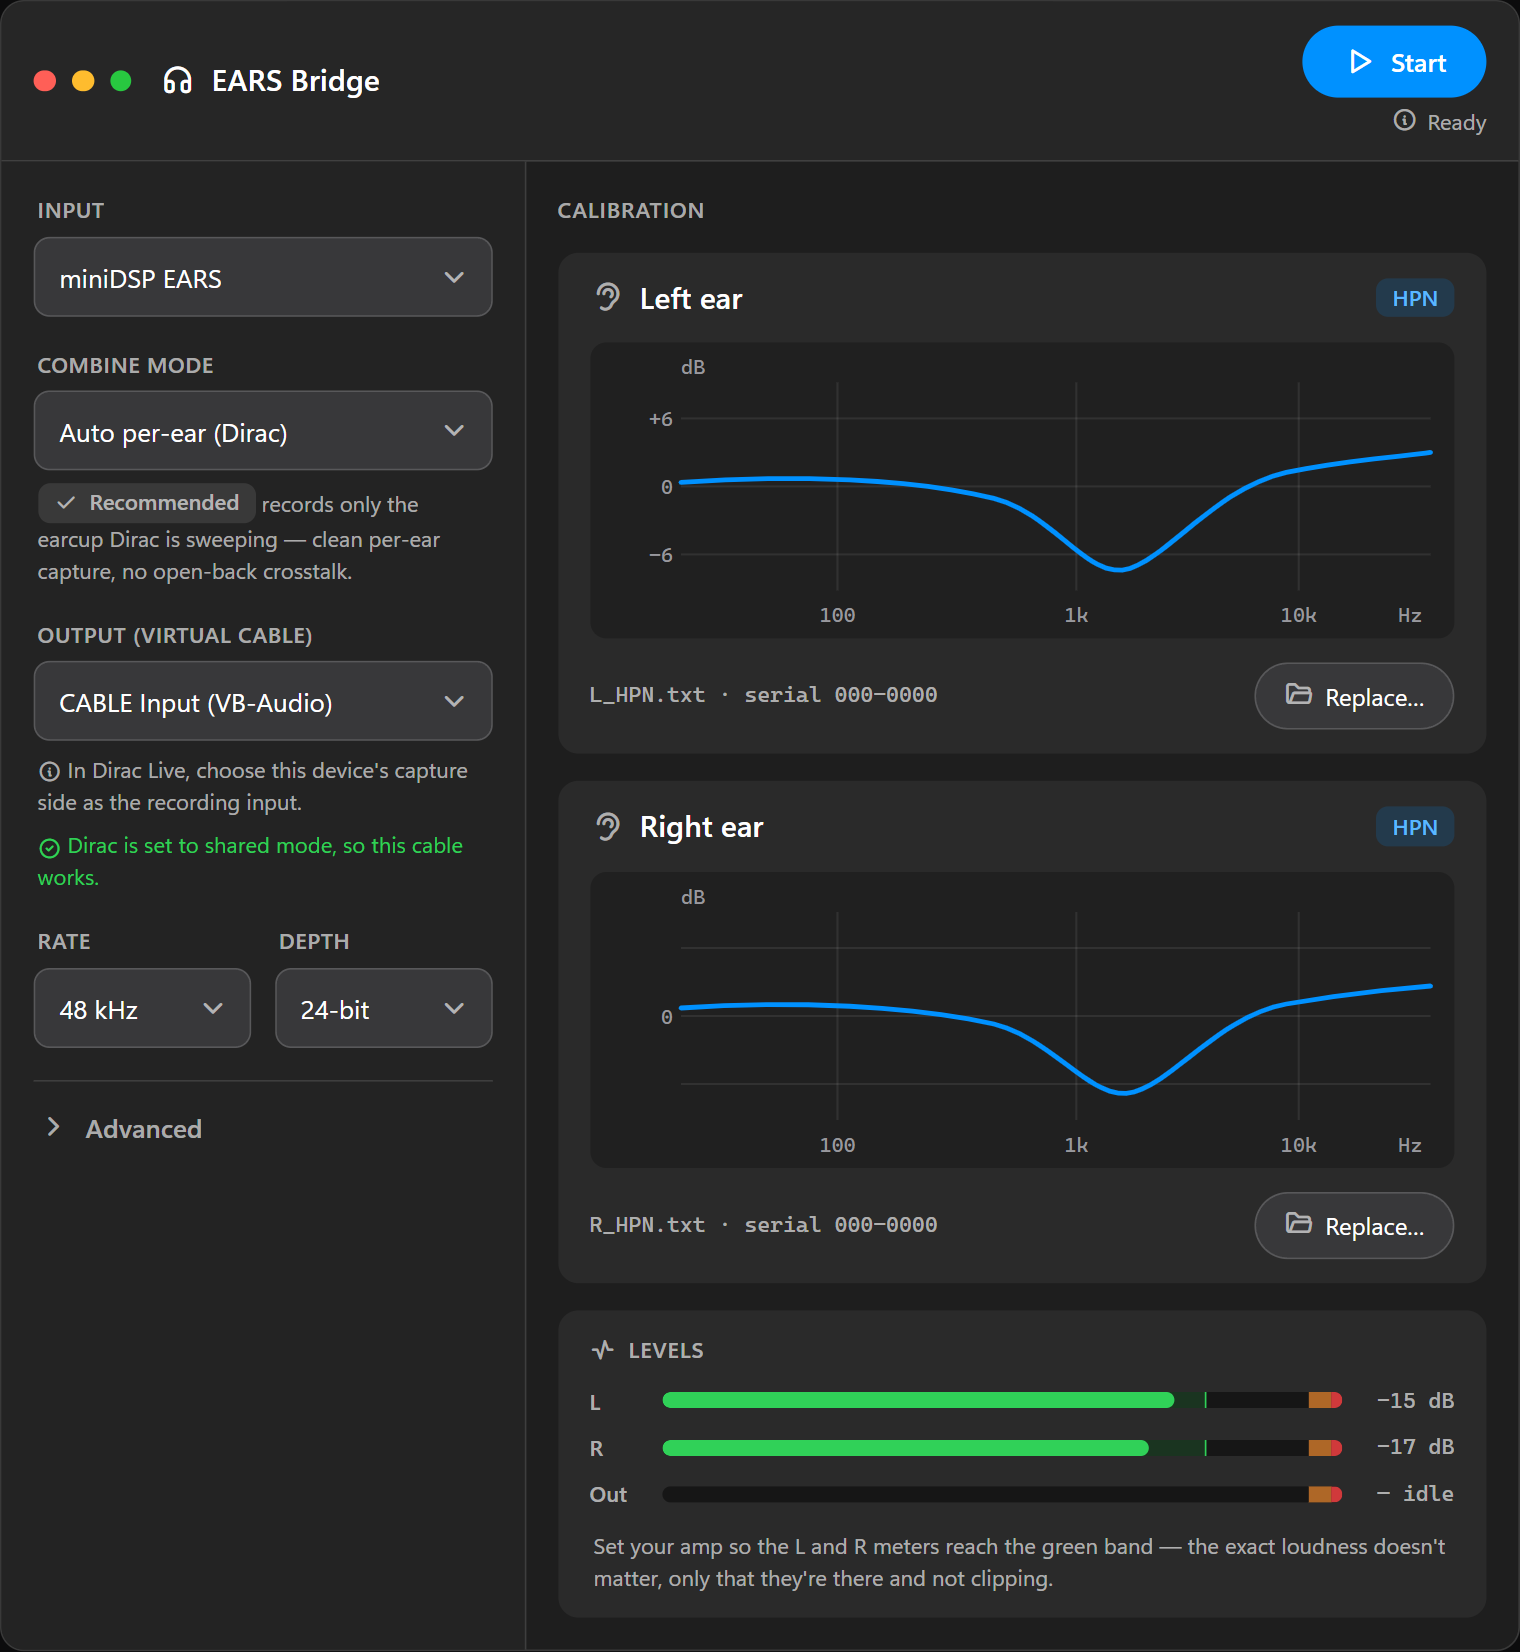
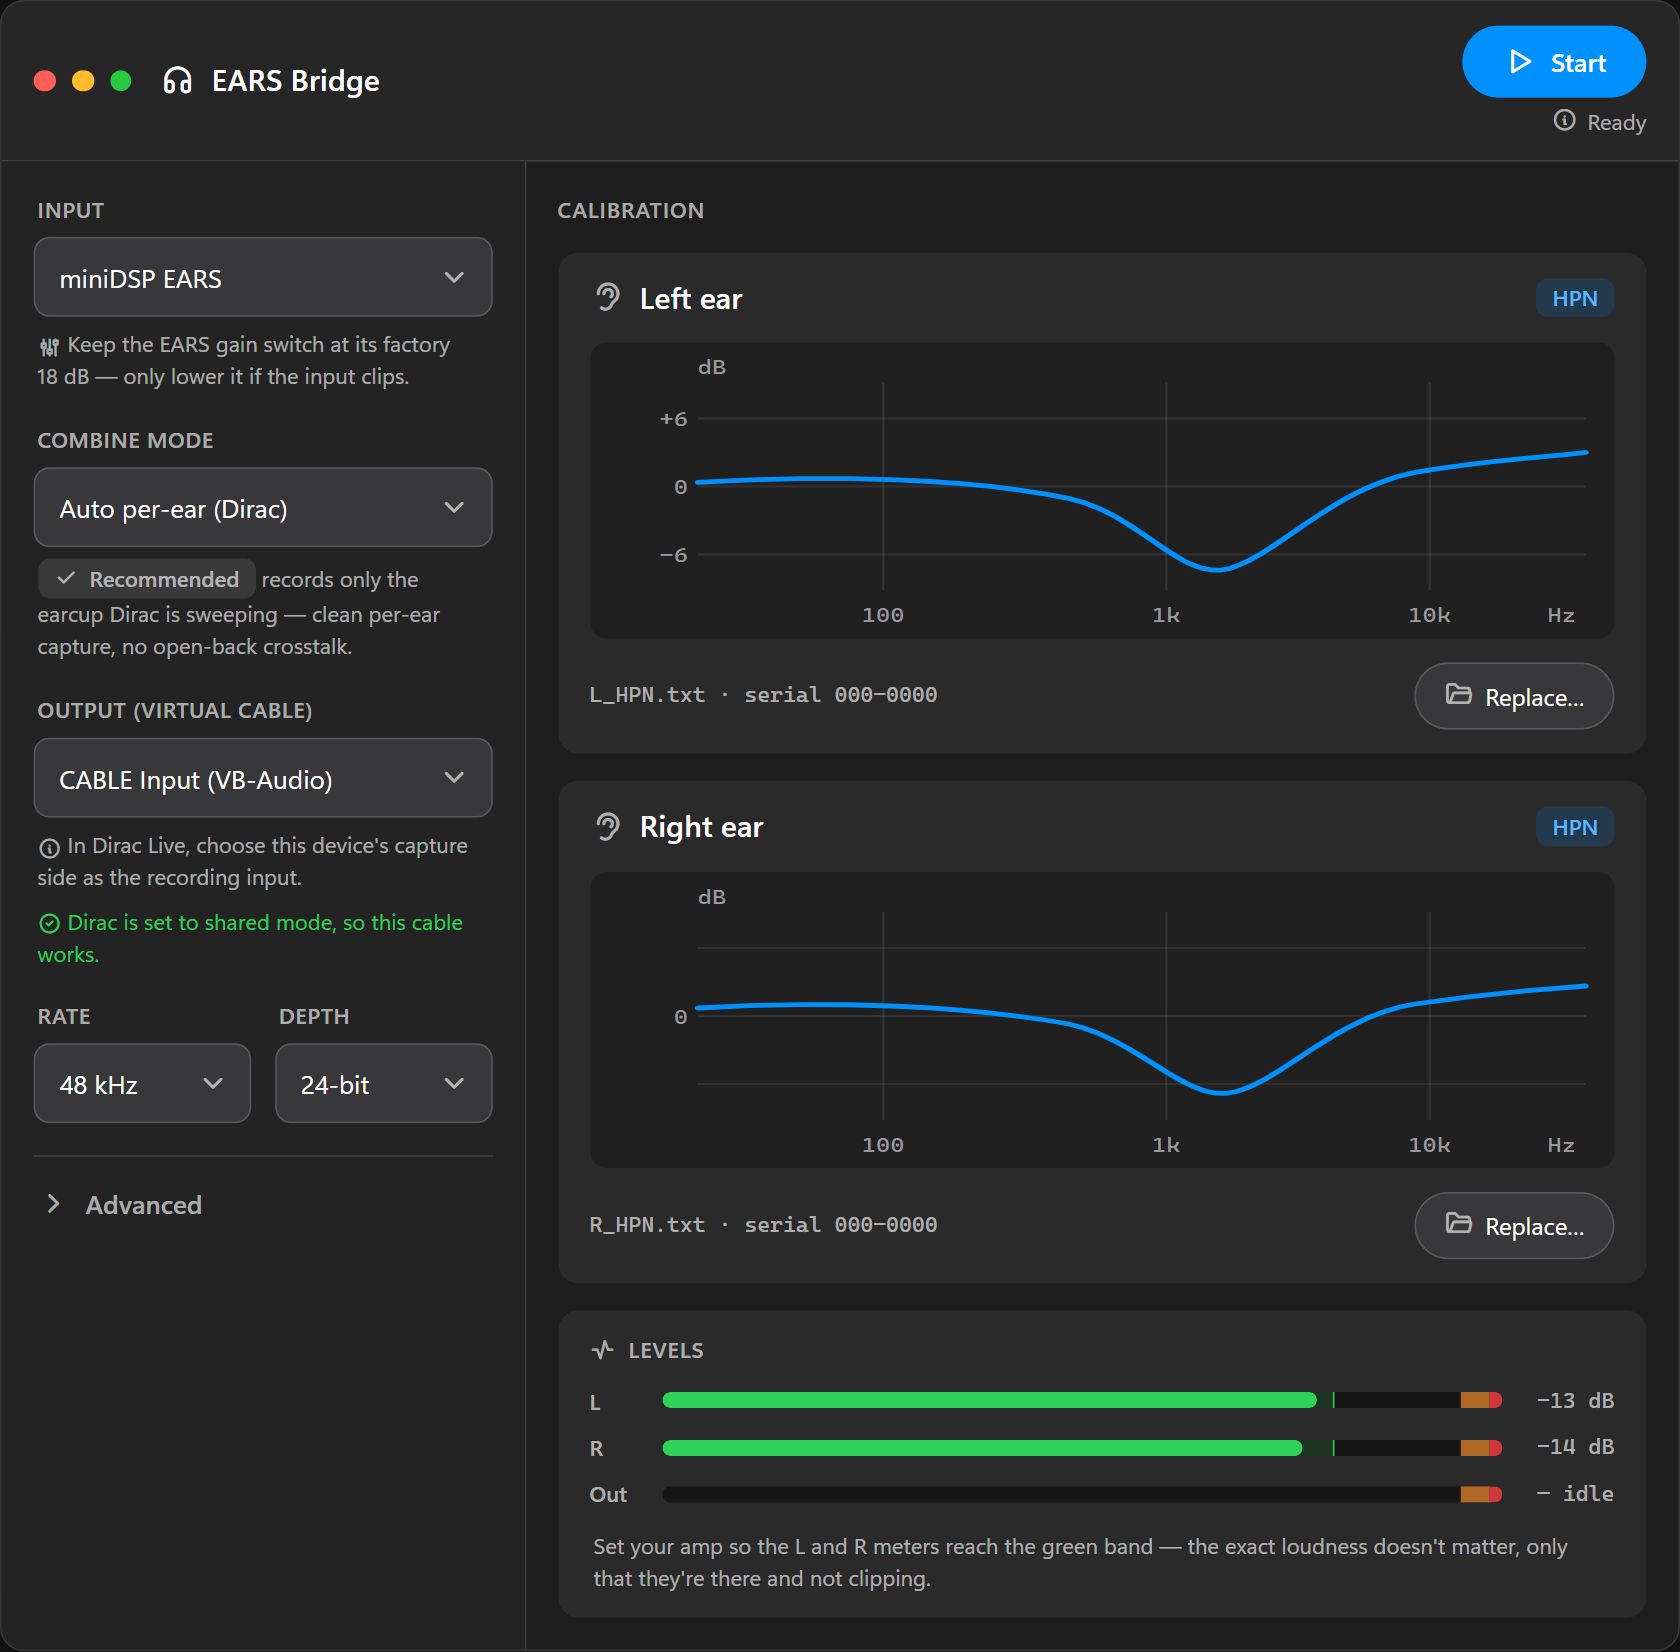
Live interactive app demo on the site; recommend 18 dB EARS gain
Website: the hero now embeds the actual app UI as a LIVE, clickable, animated demo
(site/demo.html in an auto-sized <iframe>) instead of a static screenshot --
working dropdowns, drop-to-load with an animated curve, live meters, Start gating,
and an active-ear indicator that lights the captured earcup while "running". Small
screens and no-JS fall back to a static screenshot; the iframe carries a title and
its height is driven by the demo via postMessage (clamped). app-light/-dark.png
regenerated from the demo for the fallback/README.

18 dB recommendation: after the gain-switch confusion, just tell users to keep the
EARS at its factory 18 dB -- a note under the input picker in the app
(MainComponent), in the demo, and the prototype; the README gain-staging section
already says it. The EARS gain is input headroom, not loudness; only lower it if
the input clips.

Active-ear indicator contrast fix (HIG): the "capturing LEFT/RIGHT" label/caption
used the bright accent as text (~3.5:1 on white in light mode). Keep the accent as
the meter DOT (a graphical object, 3:1) and render the label/caption in readable
primary text -- in both the app (LevelMeter/MainComponent) and the demo.

Build clean, 90/90 tests pass, apple-hig gate pass (high=0).

diff --git a/site/index.html b/site/index.html
@@ -60,11 +60,14 @@ nav a.navlink:hover{ color:var(--tx); }
 .hero .cta{ display:flex; gap:14px; justify-content:center; flex-wrap:wrap; margin-top:30px; }
 .hero .meta{ margin-top:18px; font-size:13px; color:var(--tx2); }
 
-.shot{ margin:54px auto 0; max-width:880px; border-radius:18px; border:1px solid var(--sep); overflow:hidden; box-shadow:0 30px 60px -30px rgba(0,0,0,.35); }
-@media (prefers-color-scheme: dark){ .shot{ box-shadow:0 30px 60px -30px rgba(0,0,0,.8); } }
-.shot img{ width:100%; }
-.shot picture img.dk{ display:none; }
-@media (prefers-color-scheme: dark){ .shot picture img.lt{ display:none; } .shot picture img.dk{ display:block; } }
+/* Hero shows the LIVE interactive app (demo.html) in an iframe, auto-sized to its content; small
+   screens and no-JS fall back to a static screenshot. */
+.demowrap{ margin:54px auto 0; max-width:840px; }
+.demoframe{ display:block; width:100%; height:800px; border:0; background:transparent; border-radius:12px; box-shadow:0 30px 60px -30px rgba(0,0,0,.35); }
+@media (prefers-color-scheme: dark){ .demoframe{ box-shadow:0 30px 60px -30px rgba(0,0,0,.8); } }
+.demowrap .mobshot, .demowrap .nojs{ display:none; }
+.demowrap .mobshot img, .demowrap .nojs{ width:100%; border-radius:14px; border:1px solid var(--sep); }
+@media (max-width:700px){ .demoframe{ display:none; } .demowrap .mobshot{ display:block; } }
 
 section{ padding:90px 0; }
 section.alt{ background:var(--bg2); }
@@ -127,12 +130,15 @@ footer .disc{ width:100%; margin-top:14px; line-height:1.5; }
     <a class="btn" href="https://github.com/Elevatormusic/ears-bridge/releases/latest/download/EARS-Bridge-macOS.dmg"><i class="ti ti-brand-apple" aria-hidden="true"></i>Download for macOS</a>
   </div>
   <p class="meta">Free · open source · Windows 10/11 and macOS · works with EARS and EARS&nbsp;Pro</p>
-  <div class="shot">
-    <picture>
-      <img class="lt" src="assets/app-light.png?v=4" alt="EARS Bridge: the Auto per-ear combine mode selected, per-ear calibration plots for both ears, routing controls with the Dirac shared-mode confirmation, and live level meters">
-      <img class="dk" src="assets/app-dark.png?v=4" alt="EARS Bridge in dark mode, showing the Auto per-ear mode, both calibration plots, and level meters">
+  <div class="demowrap">
+    <iframe class="demoframe" title="Interactive EARS Bridge demo — try the dropdowns, load a calibration, and press Start" src="demo.html" loading="lazy"></iframe>
+    <picture class="mobshot">
+      <source media="(prefers-color-scheme: dark)" srcset="assets/app-dark.png?v=5">
+      <img src="assets/app-light.png?v=5" alt="EARS Bridge: Auto per-ear mode, per-ear calibration plots, the Dirac shared-mode confirmation, and live level meters sitting in the green target band">
     </picture>
+    <noscript><img class="nojs" src="assets/app-light.png?v=5" alt="EARS Bridge interface: Auto per-ear mode, per-ear calibration plots, and level meters"></noscript>
   </div>
+  <script>addEventListener('message',function(e){if(e.data&&typeof e.data.ebDemoHeight==='number'){var f=document.querySelector('.demoframe');if(f)f.style.height=Math.max(560,Math.min(1120,e.data.ebDemoHeight))+'px';}});</script>
 </div></header>
 
 <section id="correction" class="alt"><div class="wrap">

diff --git a/src/gui/MainComponent.cpp b/src/gui/MainComponent.cpp
@@ -53,6 +53,13 @@ MainComponent::MainComponent() {
     // --- Input picker ---
     inputPicker.onDeviceChosen = [this] (const DeviceId& d) { onInputChosen (d); };
     addAndMakeVisible (inputPicker);
+    inputGainHint.setText ("Keep the EARS gain switch at its factory 18 dB - only lower it if the input clips.",
+                           juce::dontSendNotification);
+    inputGainHint.setColour (juce::Label::textColourId, Theme::textDim());
+    inputGainHint.setFont (juce::Font (juce::FontOptions (11.5f)));
+    inputGainHint.setJustificationType (juce::Justification::topLeft);
+    inputGainHint.setMinimumHorizontalScale (1.0f);
+    addAndMakeVisible (inputGainHint);
 
     // --- Combine selector ---
     styleEyebrow (combineLabel, "COMBINE MODE");
@@ -576,6 +583,7 @@ void MainComponent::applyTextColours() {
     styleEyebrow (levelsEyebrow, "LEVELS");
     // levelsHint colour/text is owned by the timer (updateActiveEarIndicator), so it is not set here.
     combineHint.setColour    (juce::Label::textColourId, Theme::textDim());
+    inputGainHint.setColour  (juce::Label::textColourId, Theme::textDim());
     outputHint.setColour     (juce::Label::textColourId, Theme::textDim());
     preflightLabel.setColour (juce::Label::textColourId, Theme::warn());
     rateWarn.setColour       (juce::Label::textColourId, Theme::warn());
@@ -661,7 +669,7 @@ void MainComponent::updateActiveEarIndicator (bool silent) {
         if (live) {
             text = (ear == 0) ? "Auto per-ear - capturing the LEFT earcup"
                               : "Auto per-ear - capturing the RIGHT earcup";
-            col  = Theme::accent();
+            col  = Theme::text();   // readable primary text; the meter's accent dot carries the colour cue
         } else {
             text = "Auto per-ear - waiting for the next sweep...";
             col  = Theme::textDim();
@@ -807,7 +815,9 @@ void MainComponent::resized() {
     {
         auto rr = rail.reduced (16);
         inputPicker.setBounds (rr.removeFromTop (62));
-        rr.removeFromTop (16);
+        rr.removeFromTop (4);
+        inputGainHint.setBounds (rr.removeFromTop (30));
+        rr.removeFromTop (12);
 
         combineLabel.setBounds (rr.removeFromTop (16));
         rr.removeFromTop (6);

diff --git a/src/gui/LevelMeter.cpp b/src/gui/LevelMeter.cpp
@@ -52,11 +52,13 @@ void LevelMeter::paint (juce::Graphics& g) {
     auto lab = r.removeFromLeft (26.0f);
     g.setFont (juce::Font (juce::FontOptions (11.0f).withStyle ("Bold")));
     if (active_) {
-        // AutoPerEar "live" indicator: an accent dot (shape, not colour alone) before the label, both
-        // in the accent colour, marking the earcup currently being fed to Dirac. Drawn inside the
-        // 26 px label column so the track width never shifts when the active side toggles.
+        // AutoPerEar "live" indicator: an accent DOT (a graphical object) before the label marks the
+        // earcup currently fed to Dirac. The label text stays the readable primary colour -- the accent
+        // is a fill, not low-contrast text. Drawn inside the 26 px label column so the track width
+        // never shifts when the active side toggles.
         g.setColour (Theme::accent());
         g.fillEllipse (lab.getX(), lab.getCentreY() - 3.0f, 6.0f, 6.0f);
+        g.setColour (Theme::text());
         g.drawText (label, lab.withTrimmedLeft (11.0f), juce::Justification::centredLeft);
     } else {
         g.setColour (Theme::textDim());

diff --git a/src/gui/MainComponent.h b/src/gui/MainComponent.h
@@ -62,6 +62,7 @@ private:
 
     // Input row.
     DevicePicker inputPicker { "INPUT" };
+    juce::Label  inputGainHint;   // "keep the EARS gain at its factory 18 dB" recommendation
     // Cal slots.
     CalSlotComponent leftCal  { "LEFT EAR CAL" };
     CalSlotComponent rightCal { "RIGHT EAR CAL" };